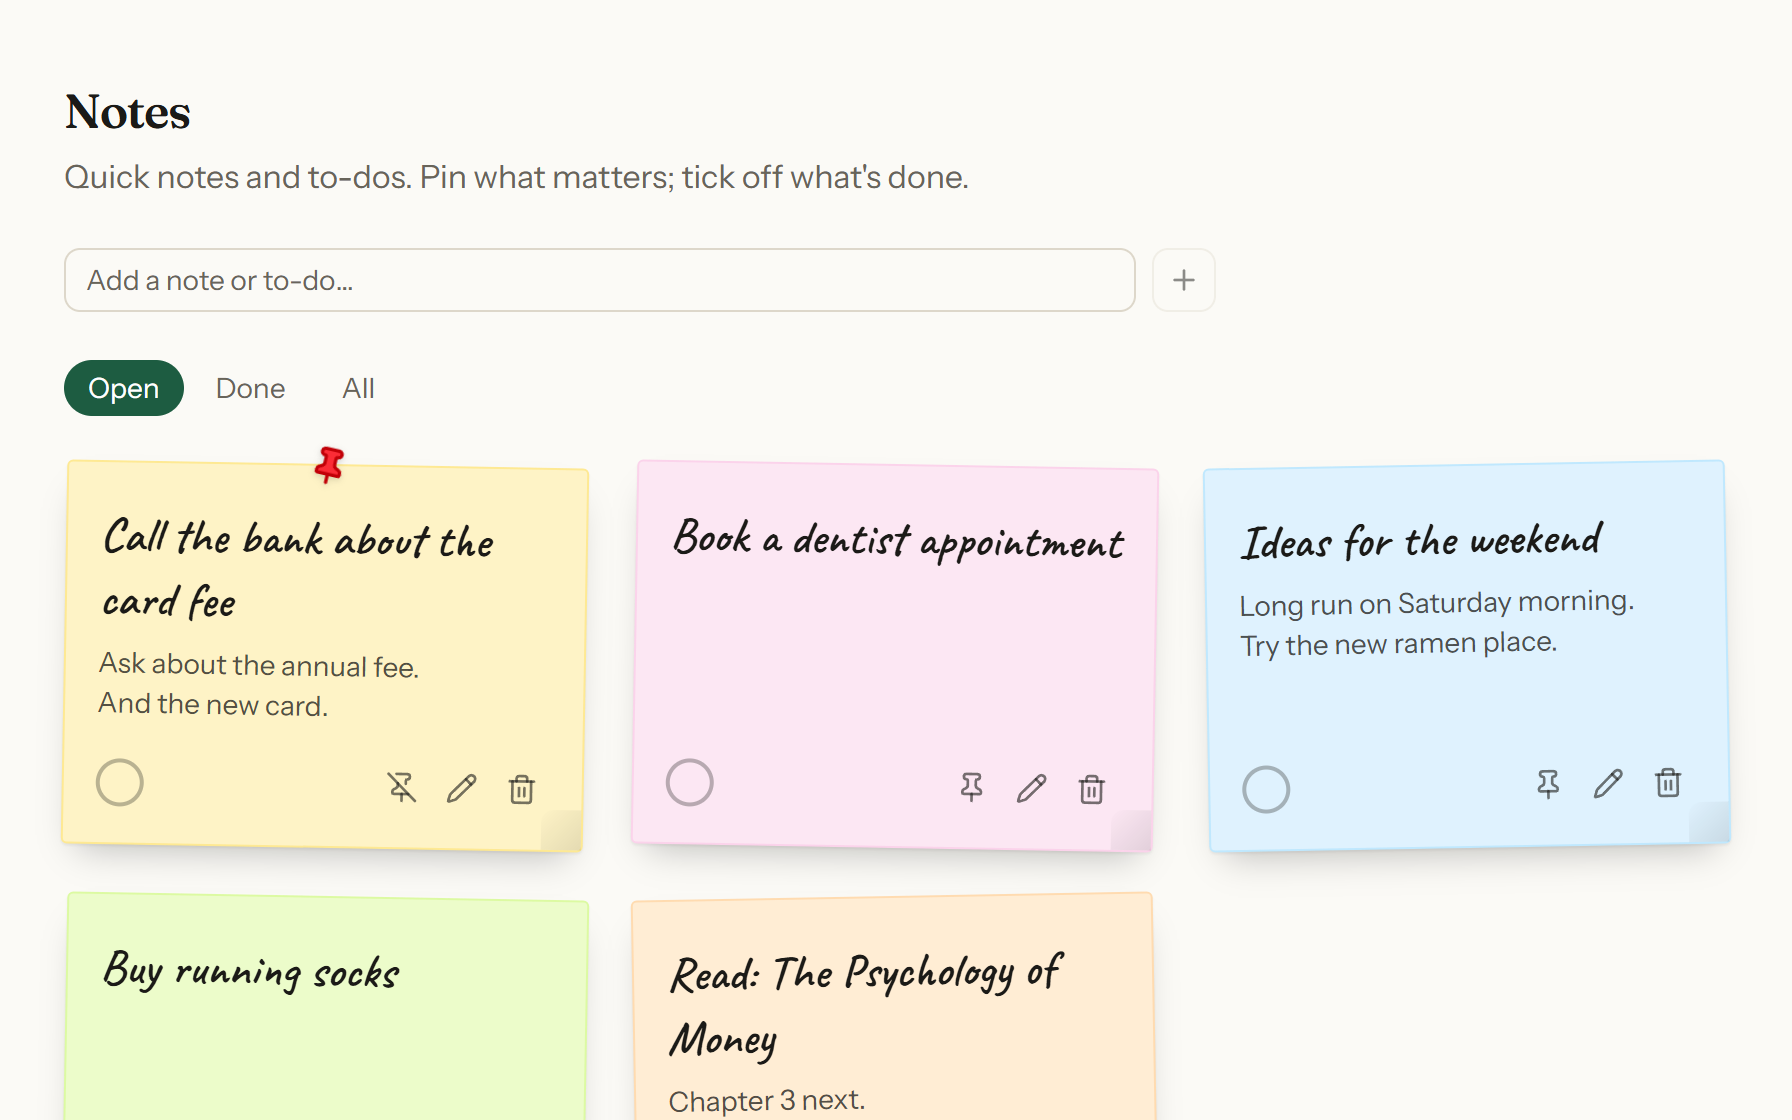
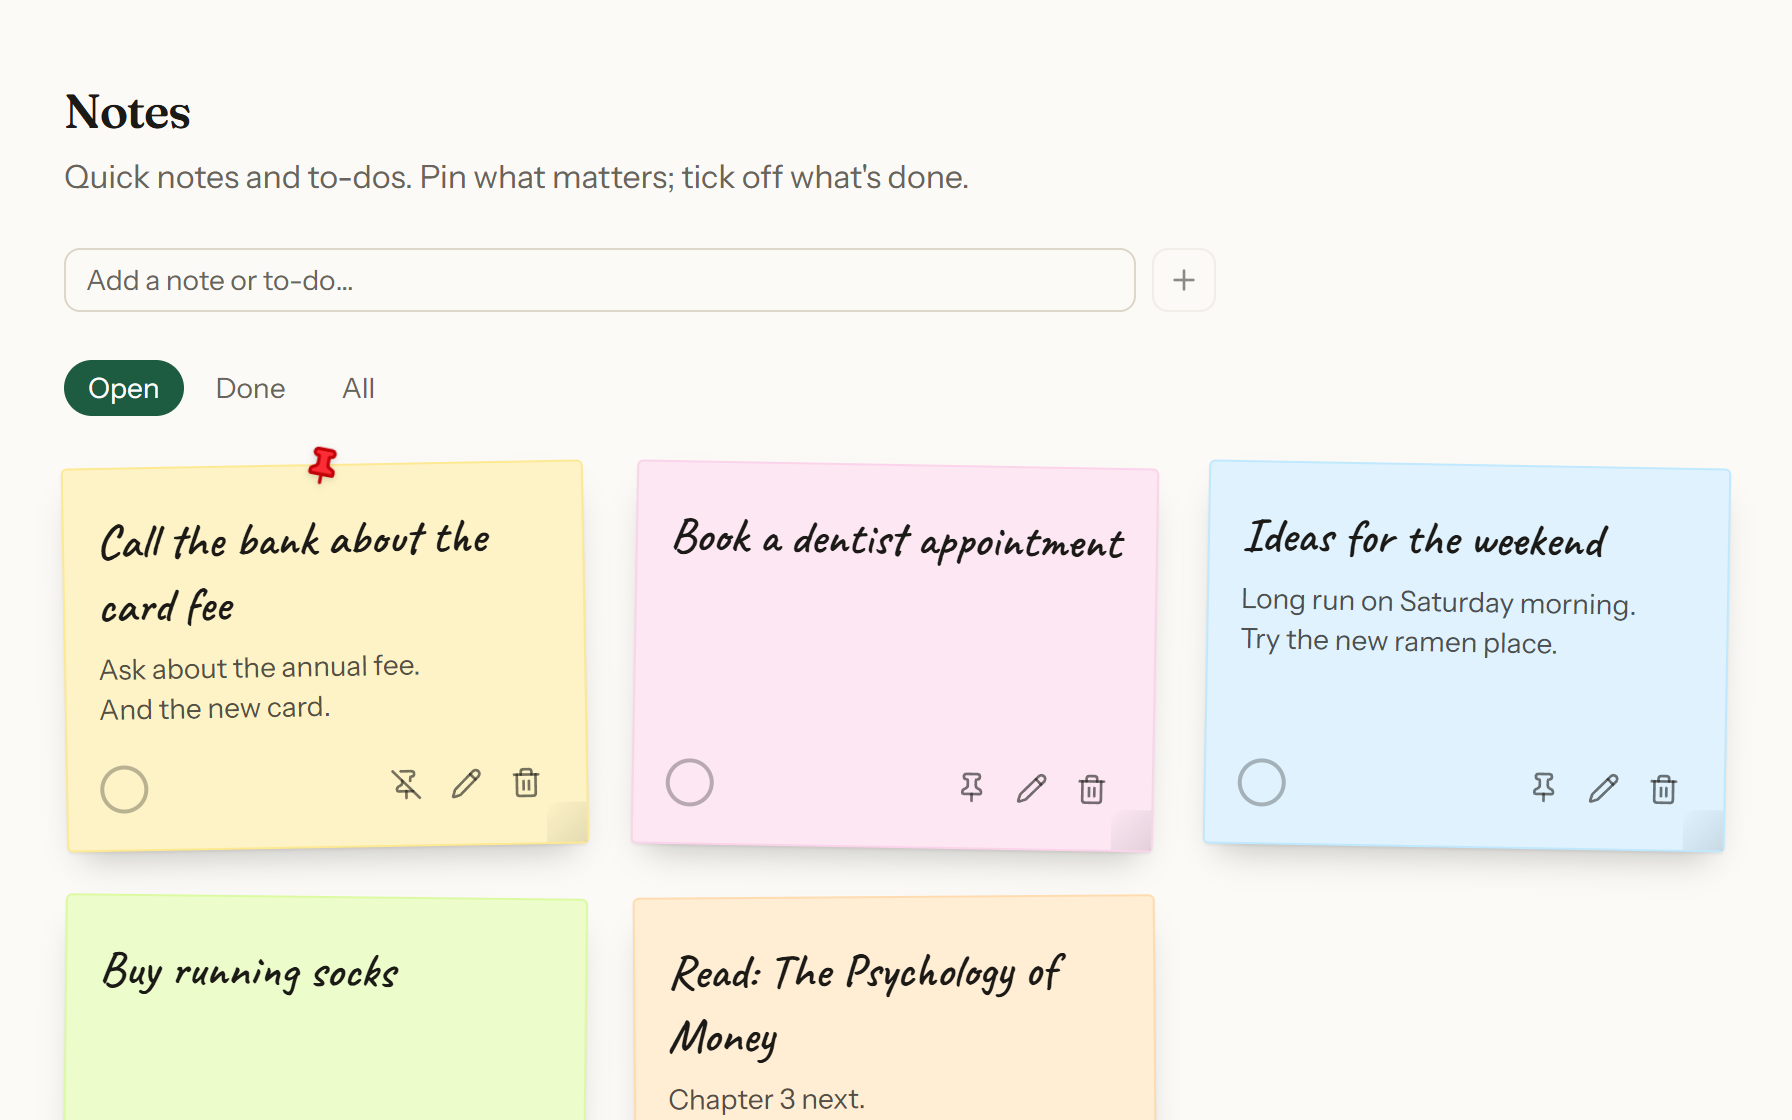
style(app): calendar in Compound's own style with ink-dot cards, a Today column, day load and weekends, plus a sidebar bookmark and handwritten date

diff --git a/compound/app/(app)/schedule/week-calendar.tsx b/compound/app/(app)/schedule/week-calendar.tsx
@@ -2,7 +2,7 @@
 
 import { useEffect, useRef, useState } from "react";
 import type { CalendarEvent } from "@/lib/calendar/events";
-import type { Block, EventColor } from "@/lib/calendar/week";
+import { dayLoad, type Block, type EventColor } from "@/lib/calendar/week";
 import type { CalendarDate } from "@/lib/db/types";
 import { cn } from "@/lib/utils";
 
@@ -12,19 +12,29 @@ export type WeekDay = { date: CalendarDate; allDay: Pick<CalendarEvent, "id" | "
 const HOUR_PX = 64;
 const PX_PER_MIN = HOUR_PX / 60;
 
-// Soft cards with a strong left edge, in the event's colour.
-const CARD: Record<EventColor, string> = {
-  blue: "bg-blue-50 border-blue-500 text-blue-950 hover:bg-blue-100",
-  violet: "bg-violet-50 border-violet-500 text-violet-950 hover:bg-violet-100",
-  green: "bg-emerald-50 border-emerald-500 text-emerald-950 hover:bg-emerald-100",
-  amber: "bg-amber-50 border-amber-500 text-amber-950 hover:bg-amber-100",
-  cyan: "bg-cyan-50 border-cyan-500 text-cyan-950 hover:bg-cyan-100",
-  rose: "bg-rose-50 border-rose-500 text-rose-950 hover:bg-rose-100",
+// Muted inks, like coloured pens on paper. Each event is a white card with a
+// faint wash of its ink and a dot before the title.
+const INK: Record<EventColor, string> = {
+  blue: "#4a6a9c",
+  violet: "#7b5a9b",
+  green: "#2b7449",
+  amber: "#b7801d",
+  cyan: "#2f8291",
+  rose: "#b0544a",
 };
 
 const WEEKDAY = new Intl.DateTimeFormat("en-US", { weekday: "short", timeZone: "UTC" });
 const LONG_DAY = new Intl.DateTimeFormat("en-US", { weekday: "long", month: "long", day: "numeric", timeZone: "UTC" });
 const asDate = (date: CalendarDate) => new Date(`${date}T00:00:00Z`);
+/** Saturday or Sunday. */
+const isWeekend = (date: CalendarDate) => [0, 6].includes(asDate(date).getUTCDay());
+
+/** "2:41 PM", from minutes since midnight. */
+function clockLabel(minutes: number) {
+  const h = Math.floor(minutes / 60);
+  const m = String(minutes % 60).padStart(2, "0");
+  return `${h % 12 === 0 ? 12 : h % 12}:${m} ${h < 12 ? "AM" : "PM"}`;
+}
 
 function hourLabel(hour: number) {
   if (hour === 0 || hour === 24) return "12 AM";
@@ -92,7 +102,7 @@ export function WeekCalendar({
         <div className="grid grid-cols-[3.5rem_repeat(7,minmax(0,1fr))] border-b bg-muted/40">
           <div />
           {days.map((day) => (
-            <DayHeading key={day.date} date={day.date} isToday={day.date === today} />
+            <DayHeading key={day.date} day={day} isToday={day.date === today} />
           ))}
         </div>
         {anyAllDay && (
@@ -105,7 +115,7 @@ export function WeekCalendar({
         )}
         <div ref={scroller} className="max-h-[calc(100vh-17rem)] min-h-80 overflow-y-auto">
           <div className="grid grid-cols-[3.5rem_repeat(7,minmax(0,1fr))]" style={{ height }}>
-            <HourLabels hours={hourList} />
+            <HourLabels hours={hourList} now={hasToday ? now : null} />
             {days.map((day) => (
               <DayColumn
                 key={day.date}
@@ -137,8 +147,14 @@ export function WeekCalendar({
                   isSelected ? "bg-primary text-primary-foreground" : "hover:bg-muted",
                 )}
               >
-                <span className={cn("text-[11px]", !isSelected && "text-muted-foreground")}>
-                  {WEEKDAY.format(asDate(day.date))}
+                <span
+                  className={cn(
+                    "text-[11px]",
+                    day.date === today ? "font-medium" : !isSelected && "text-muted-foreground",
+                    day.date === today && !isSelected && "text-primary",
+                  )}
+                >
+                  {day.date === today ? "Today" : WEEKDAY.format(asDate(day.date))}
                 </span>
                 <span className={cn("text-sm font-semibold", day.date === today && !isSelected && "text-primary")}>
                   {Number(day.date.slice(8))}
@@ -154,11 +170,16 @@ export function WeekCalendar({
             );
           })}
         </div>
-        <h2 className="mt-4 text-sm font-semibold">{LONG_DAY.format(asDate(selectedDay.date))}</h2>
+        <h2 className="mt-4 flex flex-wrap items-baseline gap-x-2 text-base font-semibold">
+          {LONG_DAY.format(asDate(selectedDay.date))}
+          <span className="font-sans text-sm font-normal text-muted-foreground">
+            {dayLoad(selectedDay.blocks, selectedDay.allDay.length)}
+          </span>
+        </h2>
         {selectedDay.allDay.length > 0 && <AllDay events={selectedDay.allDay} className="mt-2" />}
         <div ref={phoneScroller} className="mt-2 max-h-[calc(100vh-20rem)] min-h-80 overflow-y-auto rounded-2xl border">
           <div className="grid grid-cols-[3.5rem_minmax(0,1fr)]" style={{ height }}>
-            <HourLabels hours={hourList} />
+            <HourLabels hours={hourList} now={selectedDay.date === today ? now : null} />
             <DayColumn
               day={selectedDay}
               hours={hours}
@@ -167,31 +188,29 @@ export function WeekCalendar({
             />
           </div>
         </div>
-        {selectedDay.blocks.length === 0 && selectedDay.allDay.length === 0 && (
-          <p className="mt-3 text-sm text-muted-foreground">Nothing planned.</p>
-        )}
       </div>
     </>
   );
 }
 
-function DayHeading({ date, isToday }: { date: CalendarDate; isToday: boolean }) {
+function DayHeading({ day, isToday }: { day: WeekDay; isToday: boolean }) {
   return (
     <div
-      aria-label={LONG_DAY.format(asDate(date))}
+      aria-label={LONG_DAY.format(asDate(day.date))}
       aria-current={isToday ? "date" : undefined}
-      className={cn("flex flex-col items-center gap-0.5 border-l py-2", isToday && "bg-primary/5")}
+      className={cn(
+        "flex min-w-0 flex-col items-start gap-0.5 border-l px-2.5 py-2",
+        isToday ? "bg-primary/[0.06]" : isWeekend(day.date) && "bg-foreground/[0.025]",
+      )}
     >
       <span className={cn("text-xs", isToday ? "font-medium text-primary" : "text-muted-foreground")}>
-        {WEEKDAY.format(asDate(date))}
+        {isToday ? "Today" : WEEKDAY.format(asDate(day.date))}
       </span>
-      <span
-        className={cn(
-          "grid size-7 place-items-center rounded-full text-sm font-semibold tabular-nums",
-          isToday && "bg-primary text-primary-foreground",
-        )}
-      >
-        {Number(date.slice(8))}
+      <span className={cn("font-heading text-xl leading-none font-semibold tabular-nums", isToday && "text-primary")}>
+        {Number(day.date.slice(8))}
+      </span>
+      <span className="mt-1 w-full truncate text-[11px] text-muted-foreground">
+        {dayLoad(day.blocks, day.allDay.length)}
       </span>
     </div>
   );
@@ -209,7 +228,9 @@ function AllDay({ events, className }: { events: WeekDay["allDay"]; className?: 
   );
 }
 
-function HourLabels({ hours }: { hours: number[] }) {
+function HourLabels({ hours, now }: { hours: number[]; now: number | null }) {
+  const offset = hours[0] * 60;
+  const showNow = now !== null && now >= offset && now <= (hours[hours.length - 1] + 1) * 60;
   return (
     <div aria-hidden className="relative">
       {hours.map((hour, i) => (
@@ -221,6 +242,14 @@ function HourLabels({ hours }: { hours: number[] }) {
           {i === 0 ? "" : hourLabel(hour)}
         </span>
       ))}
+      {showNow && (
+        <span
+          className="absolute right-1 z-10 -translate-y-1/2 rounded bg-background px-1 text-[10px] font-semibold text-primary tabular-nums"
+          style={{ top: (now - offset) * PX_PER_MIN }}
+        >
+          {clockLabel(now)}
+        </span>
+      )}
     </div>
   );
 }
@@ -239,7 +268,13 @@ function DayColumn({
   const offset = hours.from * 60;
   const showNow = now !== null && now >= offset && now <= hours.to * 60;
   return (
-    <div aria-label={`Events on ${LONG_DAY.format(asDate(day.date))}`} className="relative border-l">
+    <div
+      aria-label={`Events on ${LONG_DAY.format(asDate(day.date))}`}
+      className={cn(
+        "relative border-l",
+        now !== null ? "bg-primary/[0.04]" : isWeekend(day.date) && "bg-foreground/[0.025]",
+      )}
+    >
       {hourList.map((hour, i) => (
         <div key={hour} aria-hidden className="absolute inset-x-0 border-t border-border/70" style={{ top: i * HOUR_PX }} />
       ))}
@@ -249,21 +284,23 @@ function DayColumn({
         const shown = Math.max(tall, 22);
         const card = (
           <>
-            <span className="block truncate font-medium">{b.title}</span>
-            {shown >= 40 && <span className="block truncate opacity-75">{b.timeLabel}</span>}
-            {shown >= 60 && b.location && <span className="block truncate opacity-75">{b.location}</span>}
+            <span className="flex items-center gap-1.5 font-medium">
+              <span aria-hidden className="size-1.5 shrink-0 rounded-full bg-(--ink)" />
+              <span className="truncate">{b.title}</span>
+            </span>
+            {shown >= 40 && <span className="block truncate pl-3 text-muted-foreground">{b.timeLabel}</span>}
+            {shown >= 60 && b.location && <span className="block truncate pl-3 text-muted-foreground">{b.location}</span>}
           </>
         );
-        const className = cn(
-          "absolute overflow-hidden rounded-md border-l-[3px] px-1.5 py-1 text-[11px] leading-tight shadow-sm transition-colors",
-          CARD[b.color],
-        );
+        const className =
+          "absolute overflow-hidden rounded-lg border border-[color-mix(in_srgb,var(--ink)_28%,transparent)] bg-[color-mix(in_srgb,var(--ink)_7%,white)] px-1.5 py-1 text-[11px] leading-tight text-foreground shadow-card transition-colors hover:bg-[color-mix(in_srgb,var(--ink)_14%,white)]";
         const style = {
+          "--ink": INK[b.color],
           top: top + 1,
           height: shown - 2,
           left: `calc(${(b.col / b.cols) * 100}% + 2px)`,
           width: `calc(${100 / b.cols}% - 4px)`,
-        };
+        } as React.CSSProperties;
         const label = `${b.title}, ${b.timeLabel}${b.location ? `, ${b.location}` : ""}`;
         return b.link ? (
           <a key={b.id} href={b.link} target="_blank" rel="noopener noreferrer" aria-label={label} className={className} style={style}>
@@ -276,10 +313,11 @@ function DayColumn({
         );
       })}
       {showNow && (
-        <div aria-hidden className="pointer-events-none absolute inset-x-0 z-10" style={{ top: (now - offset) * PX_PER_MIN }}>
-          <div className="absolute -top-[4px] -left-[5px] size-2.5 rounded-full bg-primary" />
-          <div className="h-0.5 bg-primary" />
-        </div>
+        <div
+          aria-hidden
+          className="pointer-events-none absolute inset-x-0 z-10 h-px bg-primary"
+          style={{ top: (now - offset) * PX_PER_MIN }}
+        />
       )}
     </div>
   );

diff --git a/compound/lib/calendar/week.ts b/compound/lib/calendar/week.ts
@@ -44,7 +44,8 @@ export function weekLabel(monday: CalendarDate): string {
   return `${fmt(monday, { month: "short", day: "numeric" })} – ${fmt(sunday, { month: "short", day: "numeric" })}, ${year}`;
 }
 
-// Soft card colours, like Google Calendar's own palette but pastel.
+// Event colours, named after Google's. The calendar draws them as muted inks
+// that sit well on Compound's paper.
 export const EVENT_COLORS = ["blue", "violet", "green", "amber", "cyan", "rose"] as const;
 export type EventColor = (typeof EVENT_COLORS)[number];
 
@@ -146,4 +147,31 @@ export function hourRange(blocks: { startMin: number; endMin: number }[]): { fro
     to = Math.max(to, Math.ceil(b.endMin / 60));
   }
   return { from: Math.max(0, from), to: Math.min(24, to) };
+}
+
+/** "45m", "2h", "2h 30m". */
+function formatMinutes(minutes: number): string {
+  const h = Math.floor(minutes / 60);
+  const m = minutes % 60;
+  if (h === 0) return `${m}m`;
+  return m === 0 ? `${h}h` : `${h}h ${m}m`;
+}
+
+/**
+ * How full a day is, under its date: "Free", "1 event", "3 events · 2h 30m".
+ * The time is how long the day is busy, so overlapping events count once.
+ */
+export function dayLoad(blocks: { startMin: number; endMin: number }[], allDayCount: number): string {
+  const count = blocks.length + allDayCount;
+  if (count === 0) return "Free";
+  const events = count === 1 ? "1 event" : `${count} events`;
+
+  let busy = 0;
+  let end = -1;
+  for (const b of [...blocks].sort((x, y) => x.startMin - y.startMin)) {
+    if (b.endMin <= end) continue;
+    busy += b.endMin - Math.max(b.startMin, end);
+    end = b.endMin;
+  }
+  return busy > 0 ? `${events} · ${formatMinutes(busy)}` : events;
 }

diff --git a/compound/lib/calendar/week.test.ts b/compound/lib/calendar/week.test.ts
@@ -1,6 +1,6 @@
 import { describe, expect, it } from "vitest";
 import type { CalendarEvent } from "./events";
-import { blocksForDay, colorFor, EVENT_COLORS, hourRange, layoutDay, mondayOf, weekLabel } from "./week";
+import { EVENT_COLORS, blocksForDay, colorFor, dayLoad, hourRange, layoutDay, mondayOf, weekLabel } from "./week";
 
 const tz = "Asia/Manila"; // UTC+8, no daylight saving
 const event = (id: string, start: string, end: string): CalendarEvent => ({
@@ -114,5 +114,29 @@ describe("hourRange", () => {
 
   it("widens to fit early and late events", () => {
     expect(hourRange([block("run", 6 * 60, 7 * 60), block("late", 20 * 60, 21 * 60 + 30)])).toEqual({ from: 6, to: 22 });
+  });
+});
+
+describe("dayLoad", () => {
+  const block = (startMin: number, endMin: number) => ({ startMin, endMin });
+
+  it("says Free on an empty day", () => {
+    expect(dayLoad([], 0)).toBe("Free");
+  });
+
+  it("counts events and adds up the busy time", () => {
+    expect(dayLoad([block(540, 585)], 0)).toBe("1 event · 45m");
+    expect(dayLoad([block(540, 600), block(720, 810)], 0)).toBe("2 events · 2h 30m");
+    expect(dayLoad([block(540, 660)], 0)).toBe("1 event · 2h");
+  });
+
+  it("counts overlapping time once", () => {
+    // 12:00–1:00 and 12:30–1:30 are busy 12:00–1:30; 1:00–1:10 sits inside.
+    expect(dayLoad([block(720, 780), block(750, 810), block(780, 790)], 0)).toBe("3 events · 1h 30m");
+  });
+
+  it("counts all-day events, without time", () => {
+    expect(dayLoad([], 1)).toBe("1 event");
+    expect(dayLoad([block(600, 660)], 1)).toBe("2 events · 1h");
   });
 });

diff --git a/compound/components/app-shell/nav-links.tsx b/compound/components/app-shell/nav-links.tsx
@@ -57,7 +57,7 @@ export function SettingsLinkView({ pathname }: { pathname: string | null }) {
 
 function SidebarLink({ item, active, alert }: { item: NavItem; active: boolean; alert: boolean }) {
   const { href, label, icon: Icon, ready } = item;
-  const base = "flex items-center gap-2.5 rounded-lg px-2.5 py-2 text-sm";
+  const base = "relative flex items-center gap-2.5 rounded-lg px-2.5 py-2 text-sm";
 
   if (!ready) {
     return (
@@ -82,7 +82,9 @@ function SidebarLink({ item, active, alert }: { item: NavItem; active: boolean; 
           : "text-muted-foreground hover:bg-sidebar-accent/60 hover:text-foreground",
       )}
     >
-      <Icon className="size-4" />
+      {/* The current page gets a green marker on its left edge, like a ribbon bookmark. */}
+      {active && <span aria-hidden className="absolute inset-y-2 -left-3 w-1 rounded-r-full bg-primary" />}
+      <Icon className={cn("size-4", active && "text-primary")} />
       {label}
       {alert && <AttentionDot className="ml-auto" />}
     </Link>

diff --git a/compound/app/(app)/today/page.tsx b/compound/app/(app)/today/page.tsx
@@ -74,7 +74,8 @@ async function TodayContent() {
     <>
       <header className="flex flex-wrap items-end justify-between gap-4">
         <div>
-          <p className="text-sm text-muted-foreground">{formatLongDate(today)}</p>
+          {/* Written like the date at the top of a notebook page. */}
+          <p className="font-hand text-xl leading-none text-primary">{formatLongDate(today)}</p>
           <h1 className="mt-1 text-2xl font-semibold tracking-tight sm:text-3xl">
             {greetingFor(hourIn(user.timezone))}
             {name ? `, ${name}` : ""}
